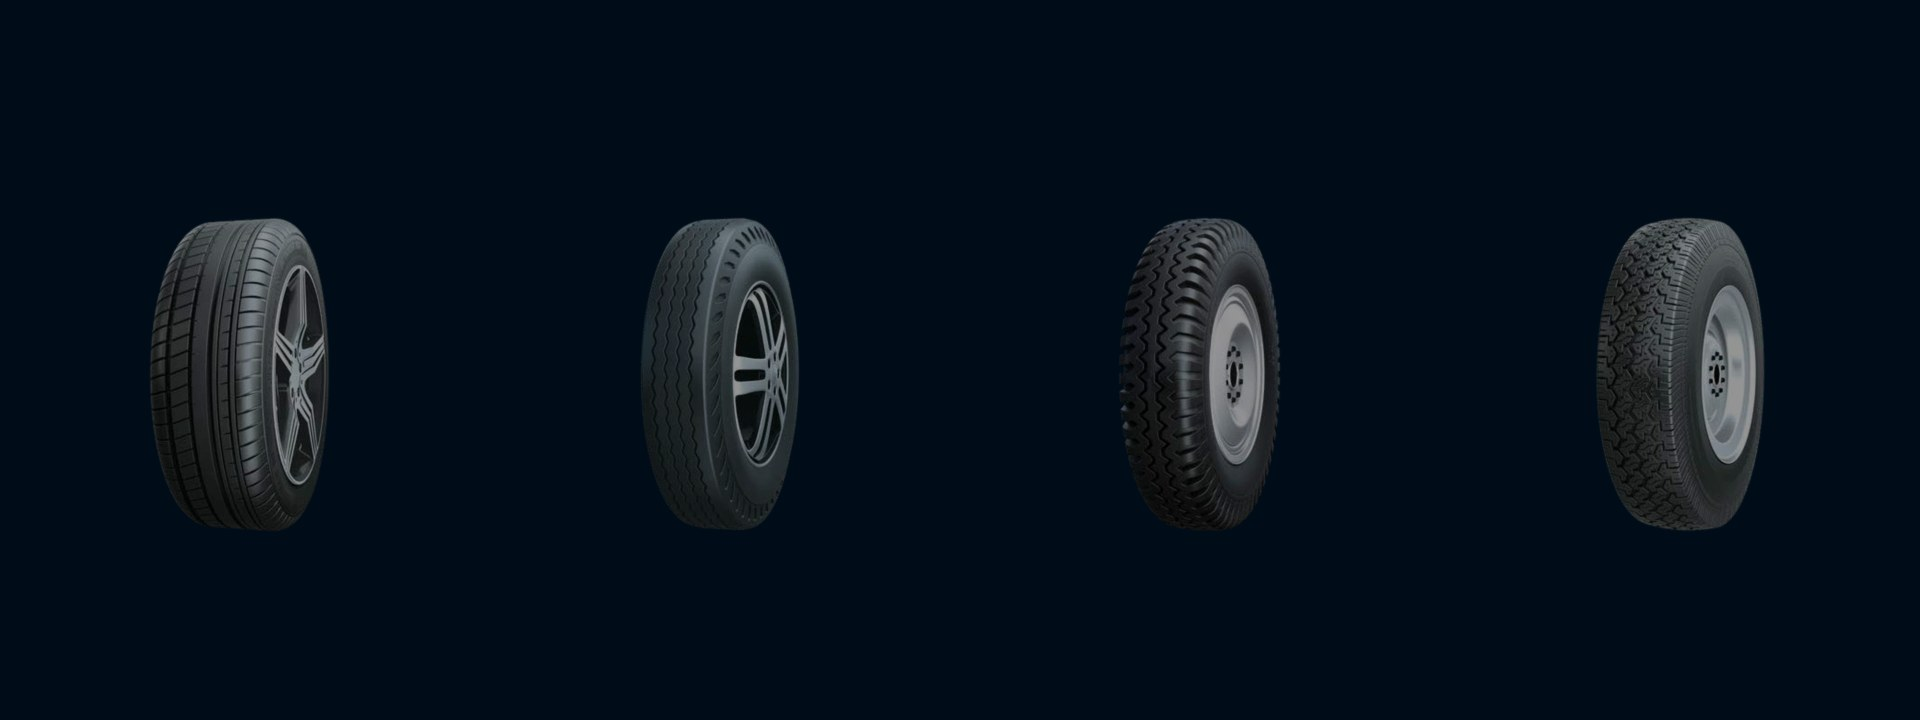
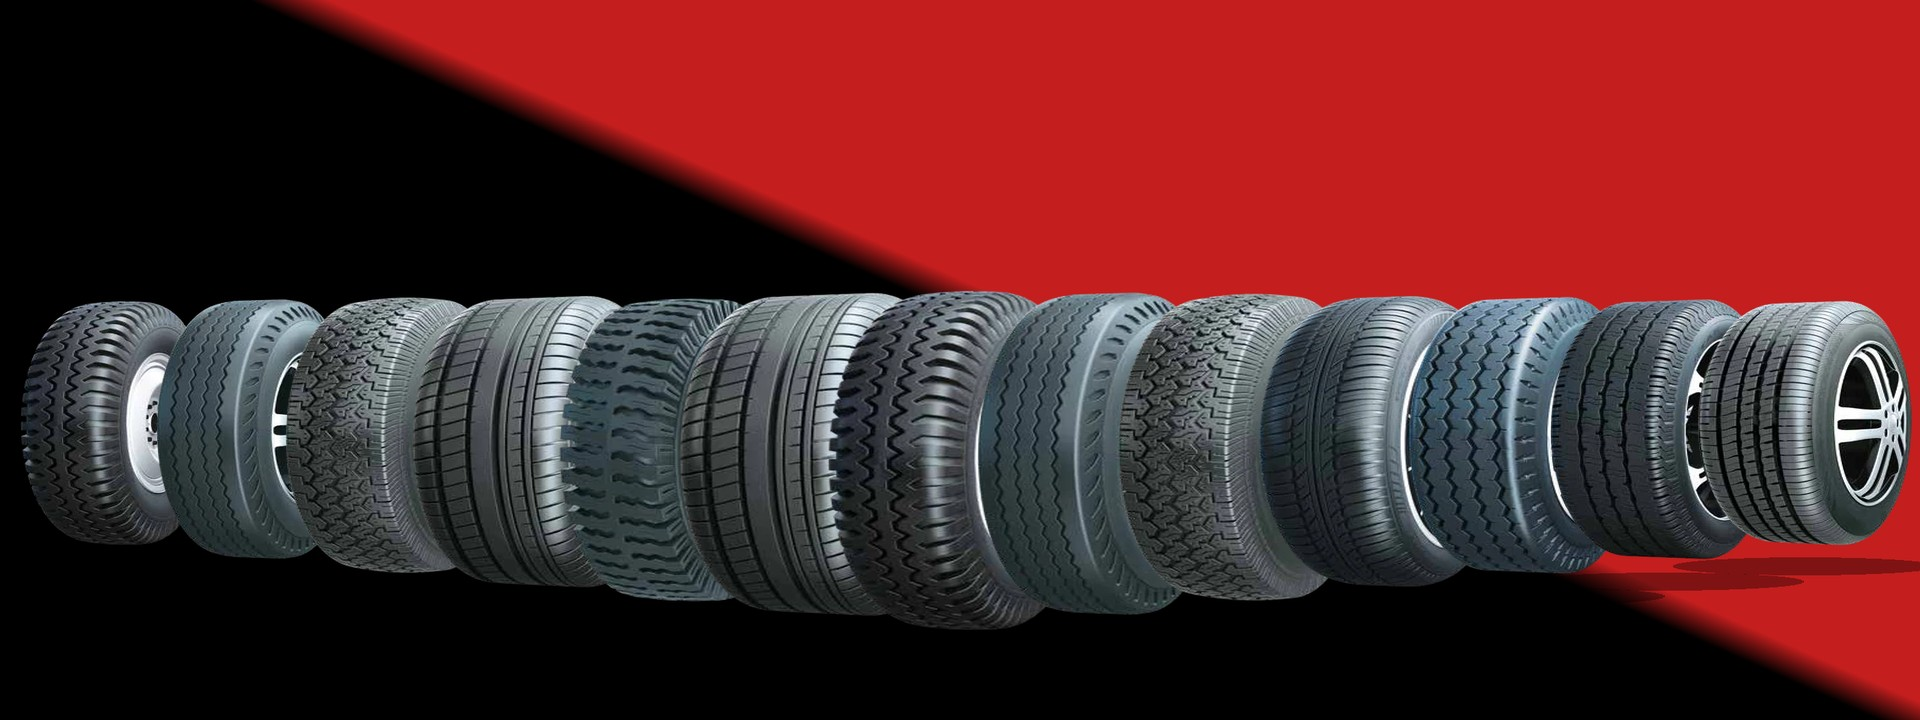
Use black/red tyre-row image as full site background
- Add pbc-site-background (diagonal black/red, catalogue tyre row)
- Apply to body, homepage hero, and inner page heroes
- Keep content sections on semi-transparent white panels for readability

diff --git a/styles.css b/styles.css
@@ -27,13 +27,13 @@
   --shadow-md: 0 4px 24px rgba(0, 26, 46, 0.12);
   --shadow-lg: 0 12px 40px rgba(0, 26, 46, 0.16);
   --gradient-hero: linear-gradient(
-    165deg,
-    rgba(0, 26, 46, 0.88) 0%,
-    rgba(13, 40, 68, 0.82) 45%,
-    rgba(0, 0, 0, 0.9) 100%
+    105deg,
+    rgba(0, 0, 0, 0.72) 0%,
+    rgba(0, 0, 0, 0.35) 42%,
+    rgba(0, 0, 0, 0.55) 100%
   );
-  --hero-bg-image: url("images/tyres-banner.webp");
-  --hero-bg-image-fallback: url("images/tyres-banner.jpg");
+  --hero-bg-image: url("images/pbc-site-background.webp");
+  --hero-bg-image-fallback: url("images/pbc-site-background.jpg");
   --gradient-navy: linear-gradient(
     160deg,
     var(--color-navy-light) 0%,
@@ -68,20 +68,17 @@ body {
   line-height: 1.65;
   color: var(--color-text);
   background-color: var(--color-bg);
-  background-image:
-    linear-gradient(rgba(242, 245, 248, 0.97), rgba(242, 245, 248, 0.97)),
-    var(--hero-bg-image-fallback);
+  background-image: var(--hero-bg-image-fallback);
   background-size: cover;
-  background-position: center top;
+  background-position: center center;
   background-attachment: fixed;
+  background-repeat: no-repeat;
   -webkit-font-smoothing: antialiased;
 }
 
-@supports (background-image: url("images/tyres-banner.webp")) {
+@supports (background-image: url("images/pbc-site-background.webp")) {
   body {
-    background-image:
-      linear-gradient(rgba(242, 245, 248, 0.97), rgba(242, 245, 248, 0.97)),
-      var(--hero-bg-image);
+    background-image: var(--hero-bg-image);
   }
 }
 
@@ -140,10 +137,11 @@ a {
 
 .section {
   padding: 5rem 0;
+  background: rgba(255, 255, 255, 0.94);
 }
 
 .section--alt {
-  background: var(--color-surface);
+  background: rgba(255, 255, 255, 0.97);
   border-block: 1px solid var(--color-border);
 }
 
@@ -373,7 +371,7 @@ a {
   background-repeat: no-repeat;
 }
 
-@supports (background-image: url("images/tyres-banner.webp")) {
+@supports (background-image: url("images/pbc-site-background.webp")) {
   .hero {
     background-image:
       var(--gradient-hero),
@@ -1149,7 +1147,7 @@ a.contact-card:hover {
   border-bottom: 2px solid var(--color-accent);
 }
 
-@supports (background-image: url("images/tyres-banner.webp")) {
+@supports (background-image: url("images/pbc-site-background.webp")) {
   .page-hero {
     background-image:
       var(--gradient-hero),
@@ -1203,6 +1201,7 @@ a.contact-card:hover {
 /* --- Quick links (home) --- */
 .quick-links {
   padding: 4rem 0 5rem;
+  background: rgba(255, 255, 255, 0.94);
 }
 
 .quick-links-grid {
@@ -1430,7 +1429,7 @@ a.contact-card:hover {
 
 .seo-links {
   padding: 2.5rem 0 3.5rem;
-  background: var(--color-bg);
+  background: rgba(255, 255, 255, 0.94);
   border-top: 1px solid var(--color-border);
 }
 

diff --git a/about.html b/about.html
@@ -20,7 +20,7 @@
   <link rel="preconnect" href="https://fonts.googleapis.com">
   <link rel="preconnect" href="https://fonts.gstatic.com" crossorigin>
   <link href="https://fonts.googleapis.com/css2?family=DM+Sans:ital,opsz,wght@0,9..40,400;0,9..40,500;0,9..40,600;0,9..40,700&display=swap" rel="stylesheet">
-  <link rel="stylesheet" href="styles.css?v=20260531-hero-bg1">
+  <link rel="stylesheet" href="styles.css?v=20260531-pbc-bg1">
   <link rel="icon" href="images/logo.png" type="image/png">
 </head>
 <body data-page="about">

diff --git a/admin.html b/admin.html
@@ -5,7 +5,7 @@
   <meta name="viewport" content="width=device-width, initial-scale=1.0">
   <title>Post Tyres | Admin | PBC</title>
   <meta name="robots" content="noindex">
-  <link rel="stylesheet" href="styles.css?v=20260531-hero-bg1">
+  <link rel="stylesheet" href="styles.css?v=20260531-pbc-bg1">
   <link href="https://fonts.googleapis.com/css2?family=DM+Sans:wght@400;500;600;700&display=swap" rel="stylesheet">
 </head>
 <body>

diff --git a/car-tyres.html b/car-tyres.html
@@ -13,7 +13,7 @@
   <link rel="preconnect" href="https://fonts.googleapis.com">
   <link rel="preconnect" href="https://fonts.gstatic.com" crossorigin>
   <link href="https://fonts.googleapis.com/css2?family=DM+Sans:ital,opsz,wght@0,9..40,400;0,9..40,500;0,9..40,600;0,9..40,700&display=swap" rel="stylesheet">
-  <link rel="stylesheet" href="styles.css?v=20260531-hero-bg1">
+  <link rel="stylesheet" href="styles.css?v=20260531-pbc-bg1">
   <link rel="icon" href="images/logo.png" type="image/png">
 </head>
 <body data-page="shop" data-catalog="car">

diff --git a/cart.html b/cart.html
@@ -6,7 +6,7 @@
   <meta name="robots" content="noindex, follow">
   <meta http-equiv="refresh" content="0; url=quote.html">
   <title>Request a tyre quote</title>
-  <link rel="stylesheet" href="styles.css?v=20260531-hero-bg1">
+  <link rel="stylesheet" href="styles.css?v=20260531-pbc-bg1">
 </head>
 <body>
   <main class="section">

diff --git a/checkout.html b/checkout.html
@@ -6,7 +6,7 @@
   <meta name="robots" content="noindex, follow">
   <meta http-equiv="refresh" content="0; url=quote.html">
   <title>Request a tyre quote</title>
-  <link rel="stylesheet" href="styles.css?v=20260531-hero-bg1">
+  <link rel="stylesheet" href="styles.css?v=20260531-pbc-bg1">
 </head>
 <body>
   <main class="section">

diff --git a/contact.html b/contact.html
@@ -20,7 +20,7 @@
   <link rel="preconnect" href="https://fonts.googleapis.com">
   <link rel="preconnect" href="https://fonts.gstatic.com" crossorigin>
   <link href="https://fonts.googleapis.com/css2?family=DM+Sans:ital,opsz,wght@0,9..40,400;0,9..40,500;0,9..40,600;0,9..40,700&display=swap" rel="stylesheet">
-  <link rel="stylesheet" href="styles.css?v=20260531-hero-bg1">
+  <link rel="stylesheet" href="styles.css?v=20260531-pbc-bg1">
   <link rel="icon" href="images/logo.png" type="image/png">
   <script type="application/ld+json">
   {

diff --git a/index.html b/index.html
@@ -23,7 +23,7 @@
   <link rel="preconnect" href="https://fonts.googleapis.com">
   <link rel="preconnect" href="https://fonts.gstatic.com" crossorigin>
   <link href="https://fonts.googleapis.com/css2?family=DM+Sans:ital,opsz,wght@0,9..40,400;0,9..40,500;0,9..40,600;0,9..40,700;1,9..40,400&display=swap" rel="stylesheet">
-  <link rel="stylesheet" href="styles.css?v=20260531-hero-bg1">
+  <link rel="stylesheet" href="styles.css?v=20260531-pbc-bg1">
   <link rel="icon" href="images/logo.png" type="image/png">
   <script type="application/ld+json">
   {

diff --git a/order-confirmation.html b/order-confirmation.html
@@ -6,7 +6,7 @@
   <meta name="robots" content="noindex, follow">
   <meta http-equiv="refresh" content="0; url=quote.html">
   <title>Request a tyre quote</title>
-  <link rel="stylesheet" href="styles.css?v=20260531-hero-bg1">
+  <link rel="stylesheet" href="styles.css?v=20260531-pbc-bg1">
 </head>
 <body>
   <main class="section">

diff --git a/product.html b/product.html
@@ -4,7 +4,7 @@
   <meta charset="UTF-8">
   <meta name="viewport" content="width=device-width, initial-scale=1.0">
   <title>Tyre Details | PBC</title>
-  <link rel="stylesheet" href="styles.css?v=20260531-hero-bg1">
+  <link rel="stylesheet" href="styles.css?v=20260531-pbc-bg1">
   <link href="https://fonts.googleapis.com/css2?family=DM+Sans:wght@400;500;600;700&display=swap" rel="stylesheet">
 </head>
 <body>

diff --git a/quote.html b/quote.html
@@ -20,7 +20,7 @@
   <link rel="preconnect" href="https://fonts.googleapis.com">
   <link rel="preconnect" href="https://fonts.gstatic.com" crossorigin>
   <link href="https://fonts.googleapis.com/css2?family=DM+Sans:ital,opsz,wght@0,9..40,400;0,9..40,500;0,9..40,600;0,9..40,700&display=swap" rel="stylesheet">
-  <link rel="stylesheet" href="styles.css?v=20260531-hero-bg1">
+  <link rel="stylesheet" href="styles.css?v=20260531-pbc-bg1">
   <link rel="icon" href="images/logo.png" type="image/png">
 </head>
 <body data-page="quote">

diff --git a/shop.html b/shop.html
@@ -9,7 +9,7 @@
   <link rel="preconnect" href="https://fonts.googleapis.com">
   <link rel="preconnect" href="https://fonts.gstatic.com" crossorigin>
   <link href="https://fonts.googleapis.com/css2?family=DM+Sans:wght@400;500;600;700&display=swap" rel="stylesheet">
-  <link rel="stylesheet" href="styles.css?v=20260531-hero-bg1">
+  <link rel="stylesheet" href="styles.css?v=20260531-pbc-bg1">
   <link rel="icon" href="images/logo.png" type="image/png">
 </head>
 <body data-page="shop">